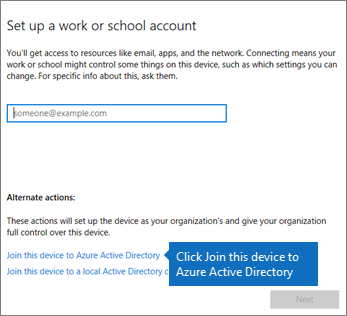
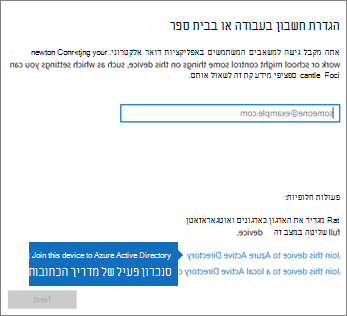
commit translated contents

diff --git a/microsoft-365/business/set-up-windows-devices.md b/microsoft-365/business/set-up-windows-devices.md
@@ -28,12 +28,12 @@ search.appverid:
 - MET150
 ms.assetid: 2d7ff45e-0da0-4caa-89a9-48cabf41f193
 description: הגדר Windows פועלים Windows 10 Pro עבור Microsoft 365 Business Premium המשתמשים, ומאפשרים ניהול מרכזי ופקדי אבטחה.
-ms.openlocfilehash: a911414b1a7abef259f4c5fffbdd48e07f9ebfdd
-ms.sourcegitcommit: 00f001019c653269d85718d410f970887d904304
+ms.openlocfilehash: 0a38a244ca997cfadb46c3833c0587e0c4f79fe3d32b90c6d92f08069b352bd3
+ms.sourcegitcommit: a1b66e1e80c25d14d67a9b46c79ec7245d88e045
 ms.translationtype: MT
 ms.contentlocale: he-IL
-ms.lasthandoff: 07/12/2021
-ms.locfileid: "53393358"
+ms.lasthandoff: 08/05/2021
+ms.locfileid: "53837758"
 ---
 # <a name="set-up-windows-devices-for-microsoft-365-business-premium-users"></a>הגדרת Windows עבור Microsoft 365 Business Premium המשתמשים
 
